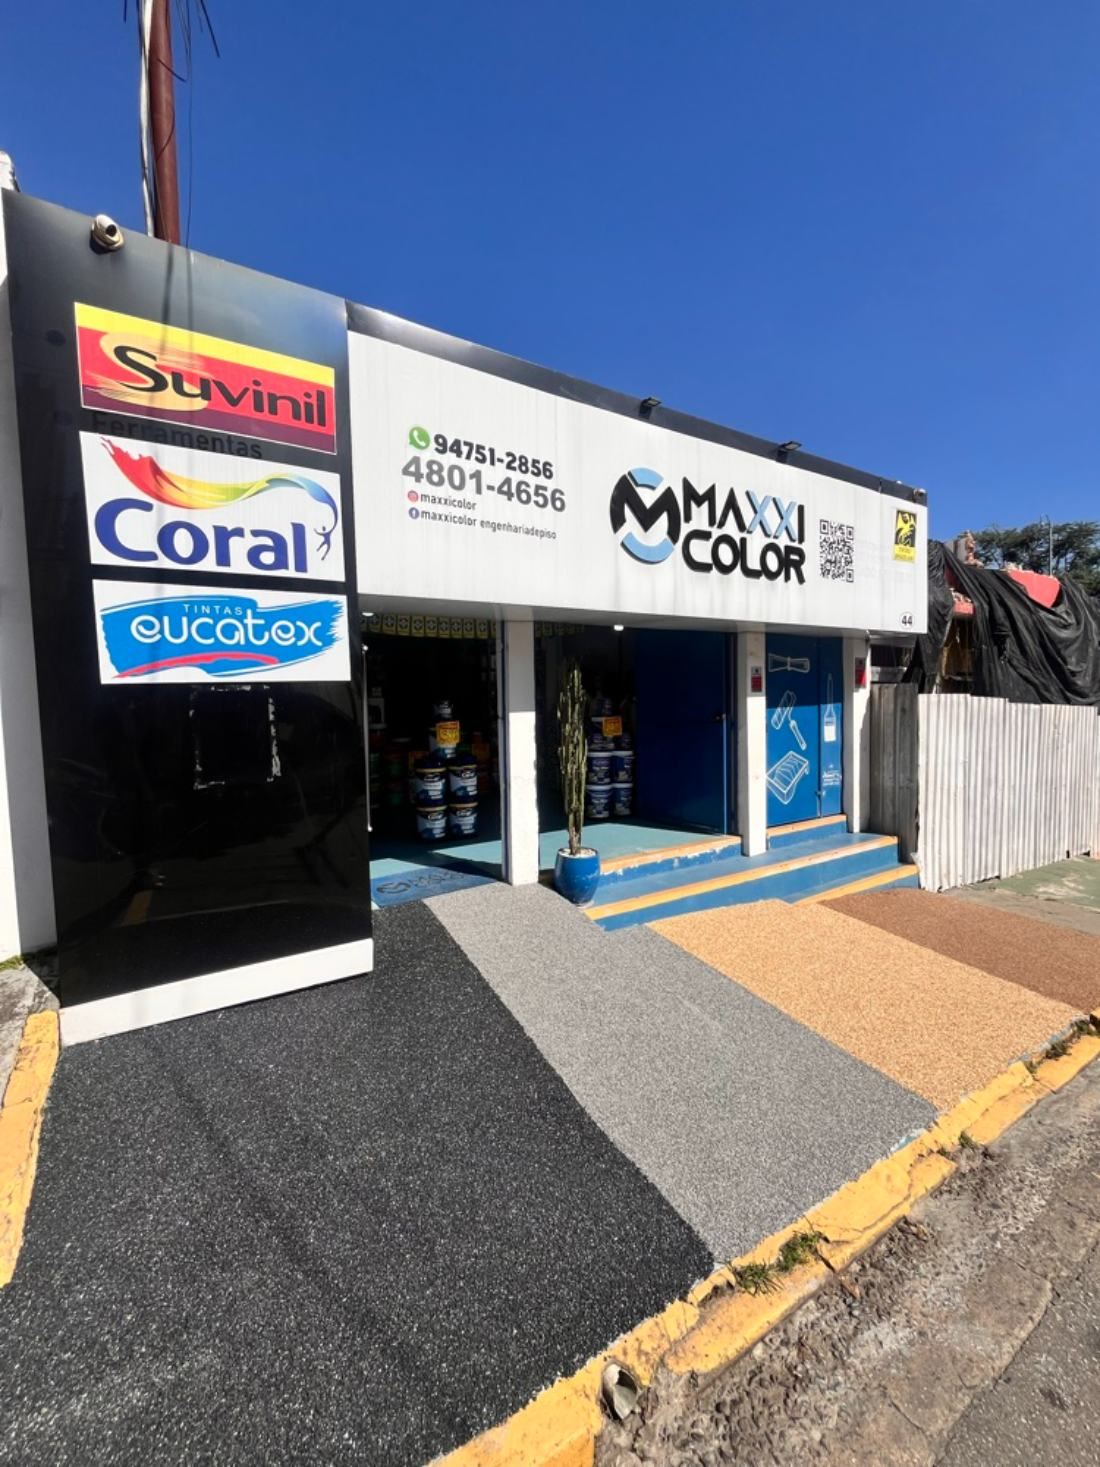
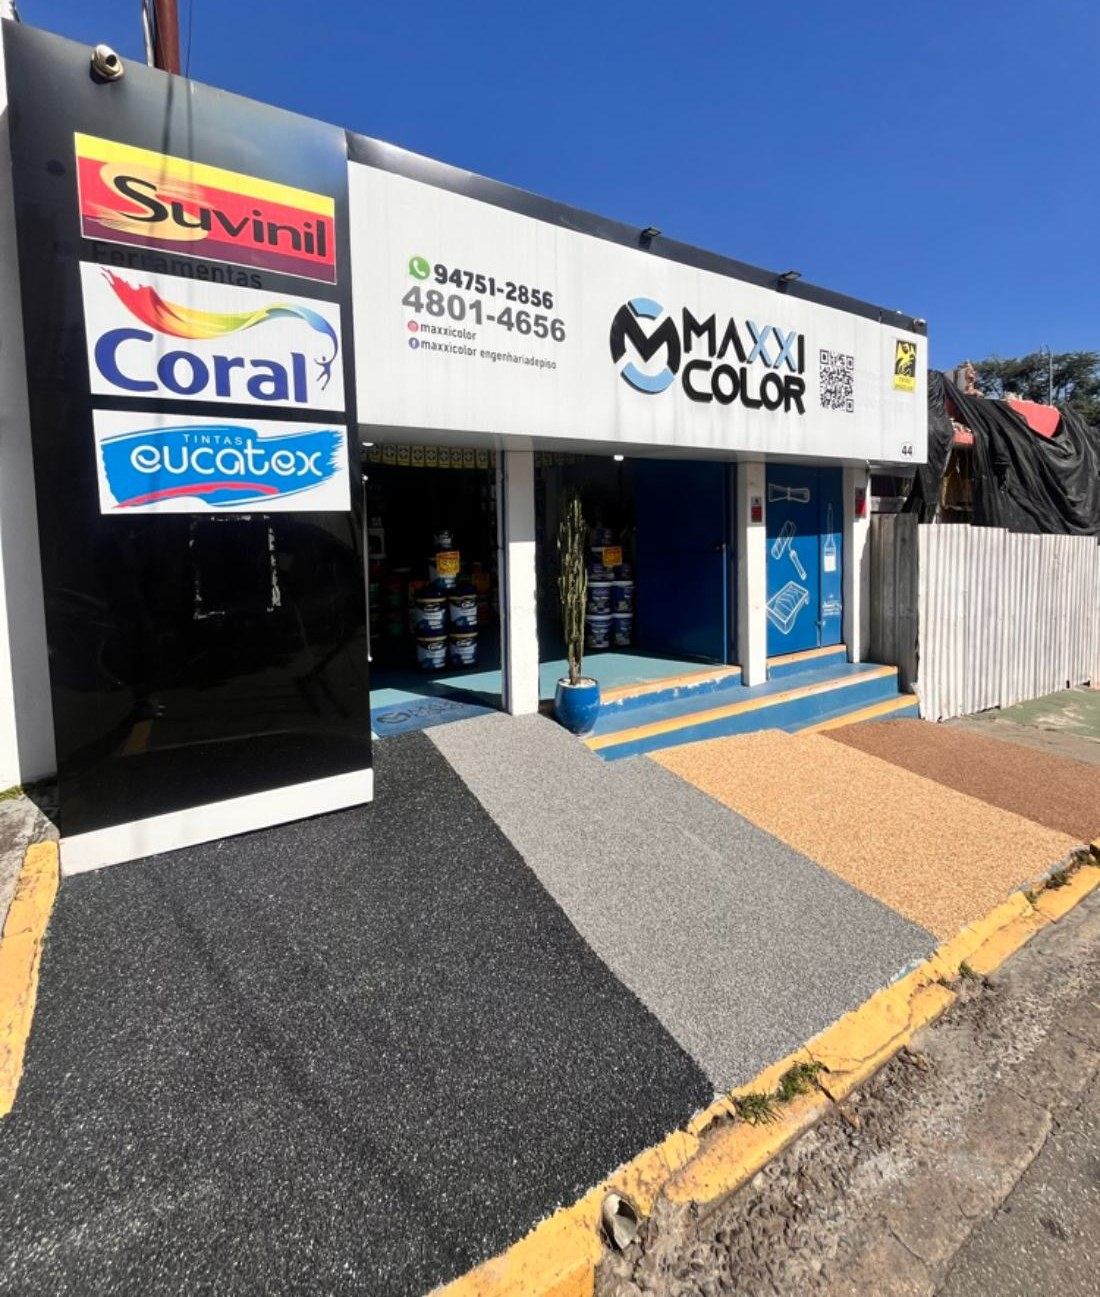
feat: fachada em destaque na galeria e corte do excesso de ceu
- Fachada agora e a foto principal, ocupando a coluna maior da galeria
- Tintometrica e fitas menores, empilhadas na coluna direita
- Imagens da fachada (normal e grande) cortadas para remover o ceu

Claude-Session: https://claude.ai/code/session_01QQ7CvVspuWyrPdUmPgbSrA

diff --git a/src/components/StoreGallery.tsx b/src/components/StoreGallery.tsx
@@ -13,7 +13,7 @@ const fachada: GalleryPhotoData = {
   alt: `Fachada da loja ${site.name}`,
   caption: "Loja física com estoque completo, pronto para retirada",
   width: 720,
-  height: 620,
+  height: 535,
 };
 
 const tintometrica: GalleryPhotoData = {
@@ -46,16 +46,16 @@ export function StoreGallery() {
 
         <Reveal>
           {/*
-            Proporcoes calculadas para as colunas fecharem na mesma altura:
-            esquerda = fachada (7/6) + fitas (16/10); direita = tintometrica
-            em retrato ocupando as duas linhas, sem cortar o equipamento.
+            Fachada em destaque ocupando as duas linhas da esquerda;
+            tintometrica e fitas menores, empilhadas na coluna direita
+            (16/10 cada, somando a mesma altura da fachada).
           */}
-          <div className="grid gap-4 lg:grid-cols-[0.85fr_1fr]">
-            <GalleryFigure photo={fachada} className="aspect-[7/6]" />
+          <div className="grid gap-4 lg:grid-cols-[1.6fr_1fr]">
             <GalleryFigure
-              photo={tintometrica}
-              className="aspect-[3/4] lg:row-span-2 lg:aspect-auto lg:h-full"
+              photo={fachada}
+              className="aspect-[4/3] lg:row-span-2 lg:aspect-auto lg:h-full"
             />
+            <GalleryFigure photo={tintometrica} className="aspect-[16/10]" />
             <GalleryFigure photo={fitas} className="aspect-[16/10]" />
           </div>
         </Reveal>
